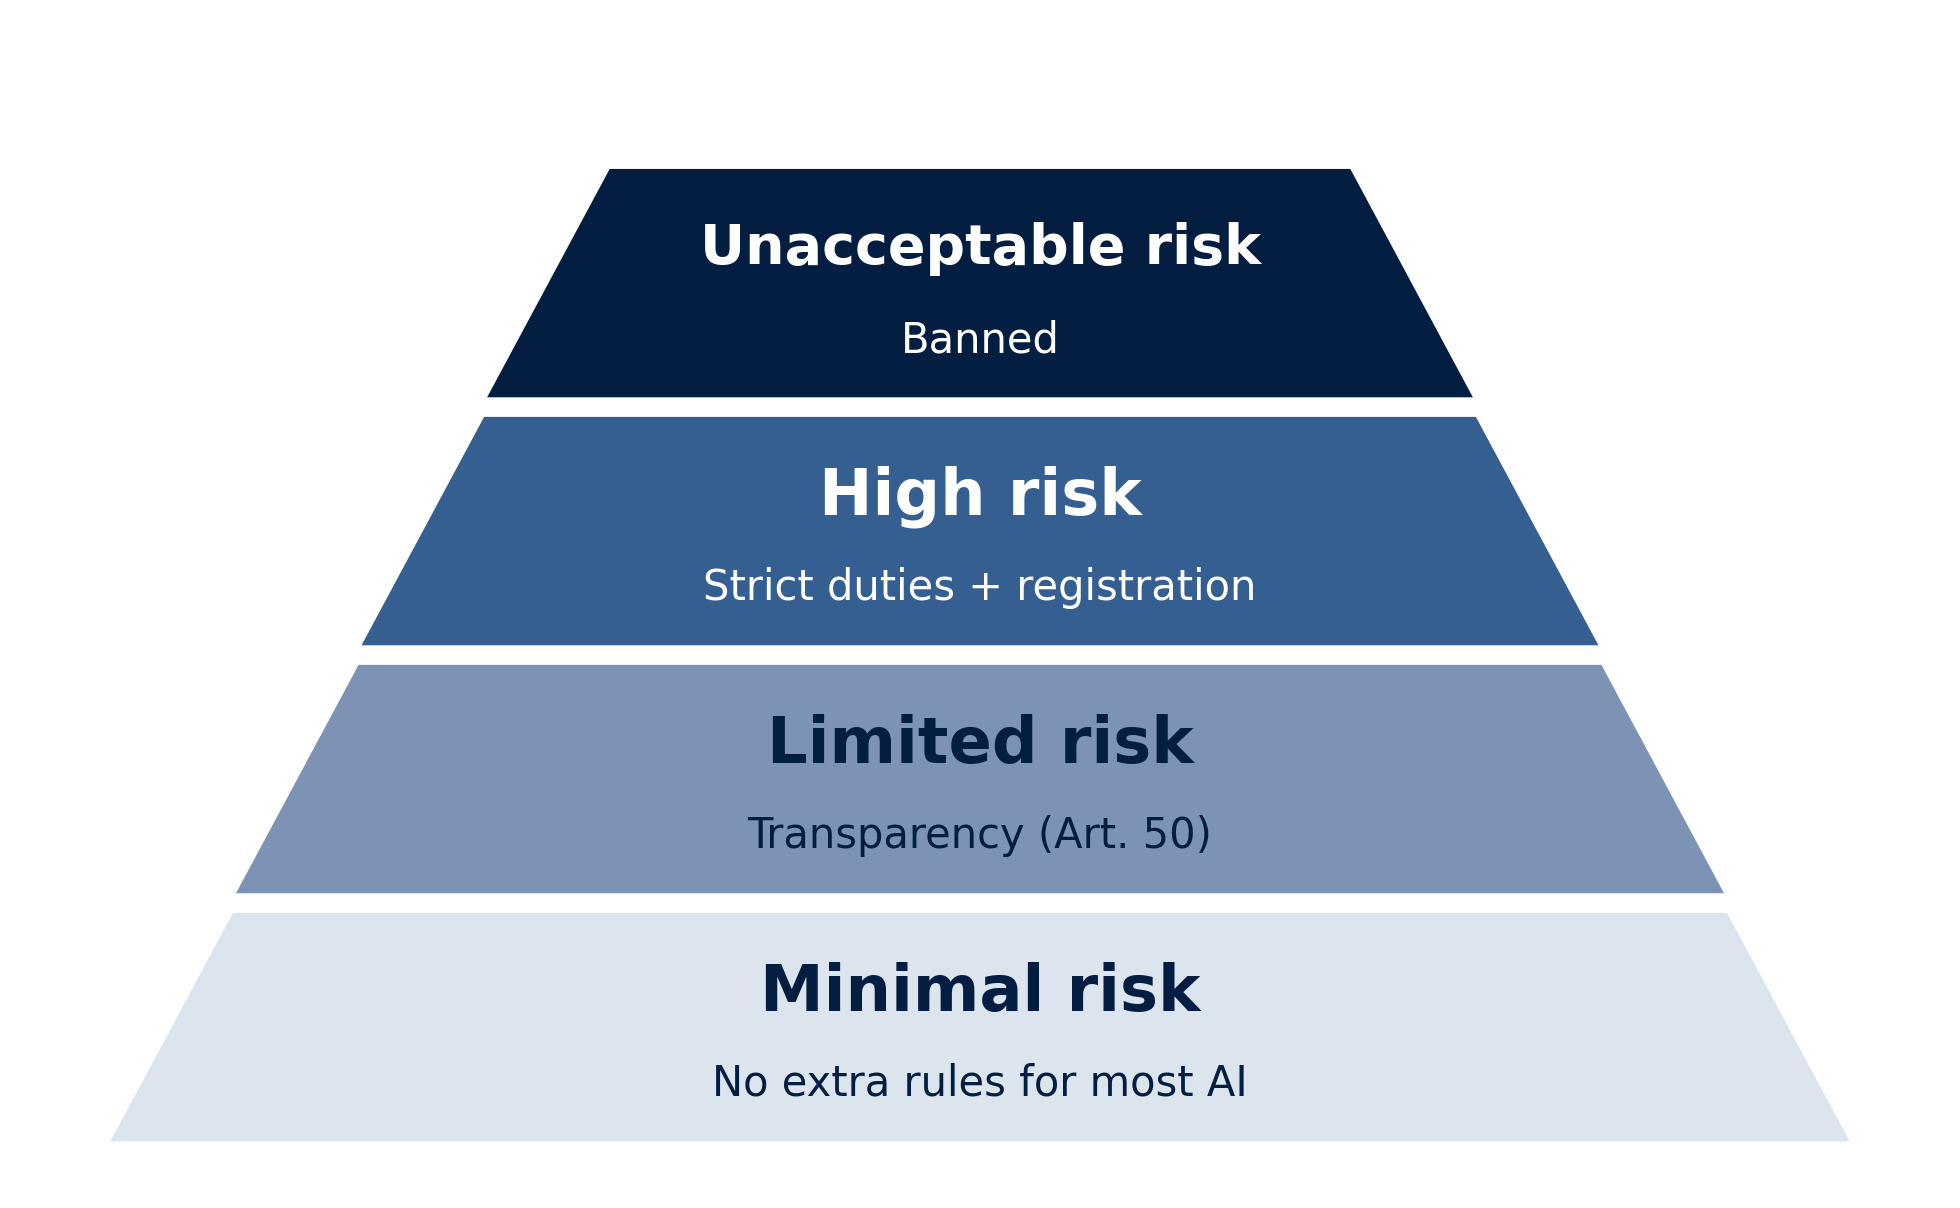
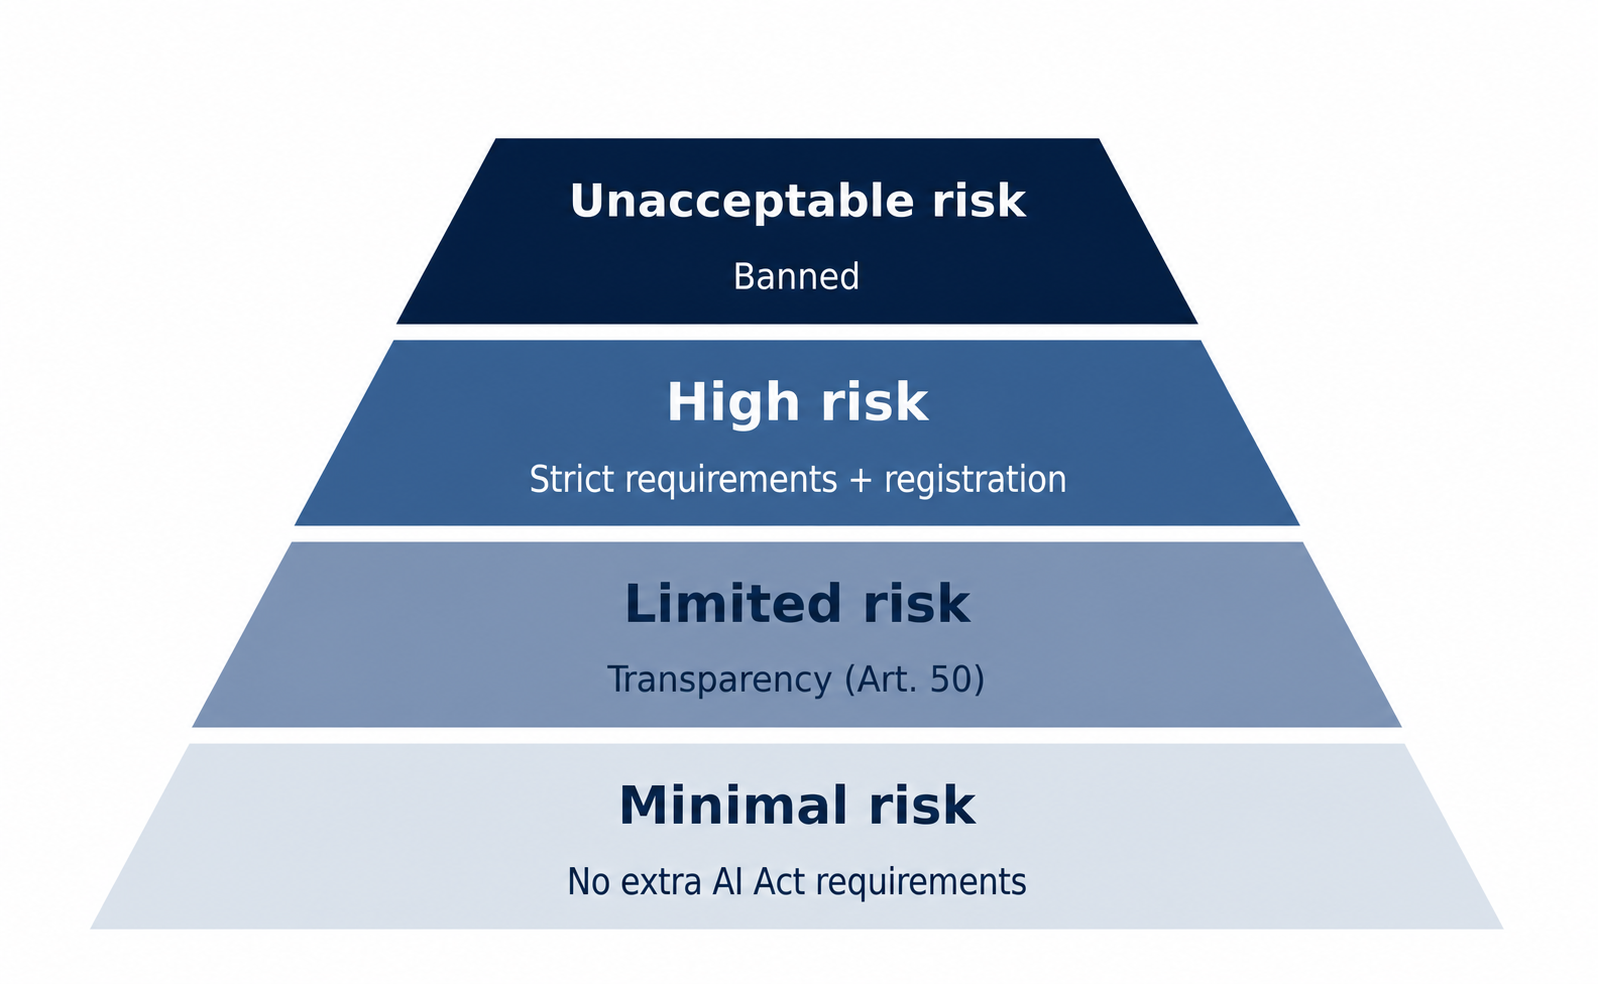
Refine Day 5 regulation and competitiveness slides

diff --git a/styles/georgetown.css b/styles/georgetown.css
@@ -120,6 +120,149 @@
   margin: 0;
 }
 
+/* Day 5 Draghi portrait and report */
+
+.reveal .draghi-slide {
+  align-items: center;
+}
+
+.reveal .draghi-slide img {
+  box-shadow: 0 8px 22px rgba(4, 30, 66, 0.16);
+}
+
+.reveal .draghi-slide blockquote {
+  margin-bottom: 0.8em;
+  font-size: 1.05em;
+  font-weight: 600;
+  line-height: 1.22;
+}
+
+.reveal .draghi-slide li {
+  margin-bottom: 0.58em;
+}
+
+.reveal .draghi-caption {
+  margin-top: 0.38em;
+  color: #65717d;
+  font-size: 0.48em;
+  line-height: 1.15;
+  text-align: center;
+}
+
+.reveal .draghi-caption p {
+  margin: 0;
+}
+
+/* Day 5 AI Act risk comparison */
+
+.reveal .risk-overview {
+  align-items: center;
+}
+
+.reveal .risk-category-list {
+  font-size: 0.62em;
+  line-height: 1.2;
+}
+
+.reveal .risk-category {
+  margin-bottom: 0.48em;
+  padding: 0.14em 0 0.4em 0.68em;
+  border-bottom: 1px solid #c3ccd6;
+  border-left: 7px solid var(--gt-blue);
+}
+
+.reveal .risk-category:last-child {
+  margin-bottom: 0;
+  border-bottom: 0;
+}
+
+.reveal .risk-category-title {
+  margin-bottom: 0.1em;
+  color: var(--gt-navy);
+  font-size: 1.08em;
+  font-weight: 700;
+}
+
+.reveal .risk-category-title span {
+  margin-left: 0.45em;
+  color: #65717d;
+  font-size: 0.72em;
+  font-weight: 650;
+  letter-spacing: 0.025em;
+  text-transform: uppercase;
+}
+
+.reveal .risk-category-rule {
+  margin-top: 0.12em;
+  color: var(--gt-blue);
+  font-weight: 700;
+}
+
+.reveal .risk-prohibited {
+  border-left-color: var(--gt-navy);
+}
+
+.reveal .risk-high {
+  border-left-color: var(--gt-blue);
+}
+
+.reveal .risk-limited {
+  border-left-color: #8299b8;
+}
+
+.reveal .risk-minimal {
+  border-left-color: #c7d2df;
+}
+
+.reveal .risk-clarifier,
+.reveal .duty-callout {
+  margin-top: 0.48em;
+  padding: 0.42em 0.62em;
+  color: #26323d;
+  background: var(--gt-paper);
+  border-left: 5px solid var(--gt-taupe);
+  font-size: 0.68em;
+  line-height: 1.25;
+}
+
+.reveal .risk-clarifier p,
+.reveal .duty-callout p {
+  margin: 0;
+}
+
+.reveal .duty-columns {
+  align-items: flex-start;
+}
+
+.reveal .slides section.no-visible-title > h2 {
+  position: absolute;
+  width: 1px;
+  height: 1px;
+  padding: 0;
+  margin: -1px;
+  overflow: hidden;
+  clip: rect(0, 0, 0, 0);
+  white-space: nowrap;
+  border: 0;
+}
+
+.reveal .no-visible-title .duty-columns {
+  margin-top: 0.35em;
+}
+
+.reveal .duty-columns .column + .column {
+  padding-left: 1em;
+  border-left: 2px solid var(--gt-pale-blue);
+}
+
+.reveal .duty-columns h3 {
+  margin-bottom: 0.48em;
+}
+
+.reveal .duty-columns li {
+  margin-bottom: 0.38em;
+}
+
 .reveal .column > :first-child {
   margin-top: 0;
 }
